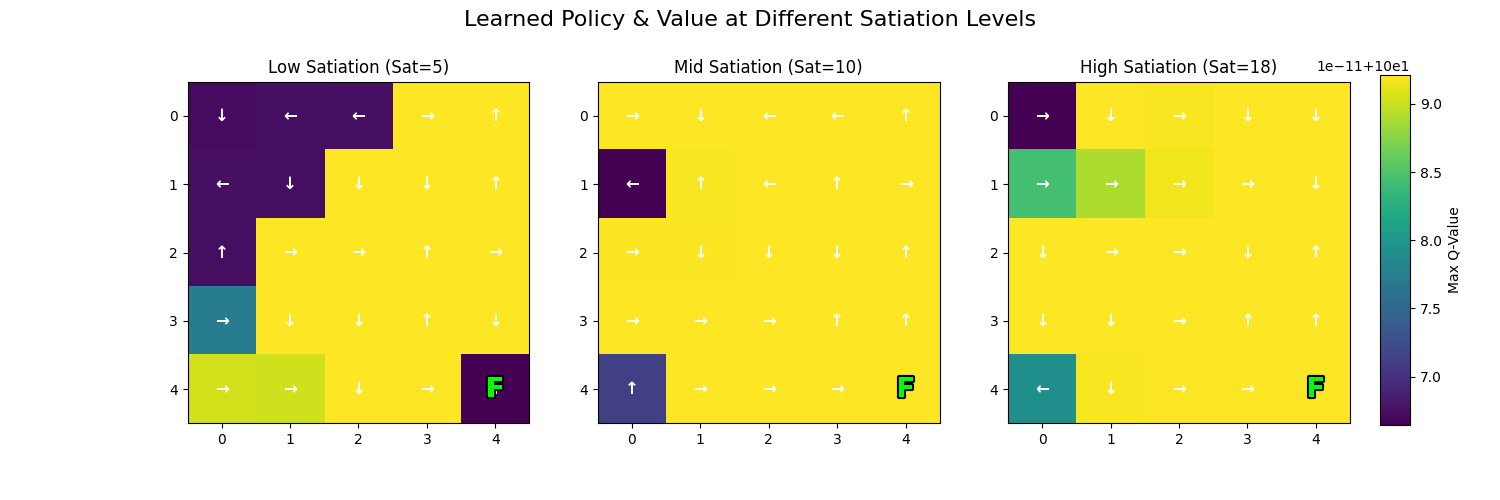
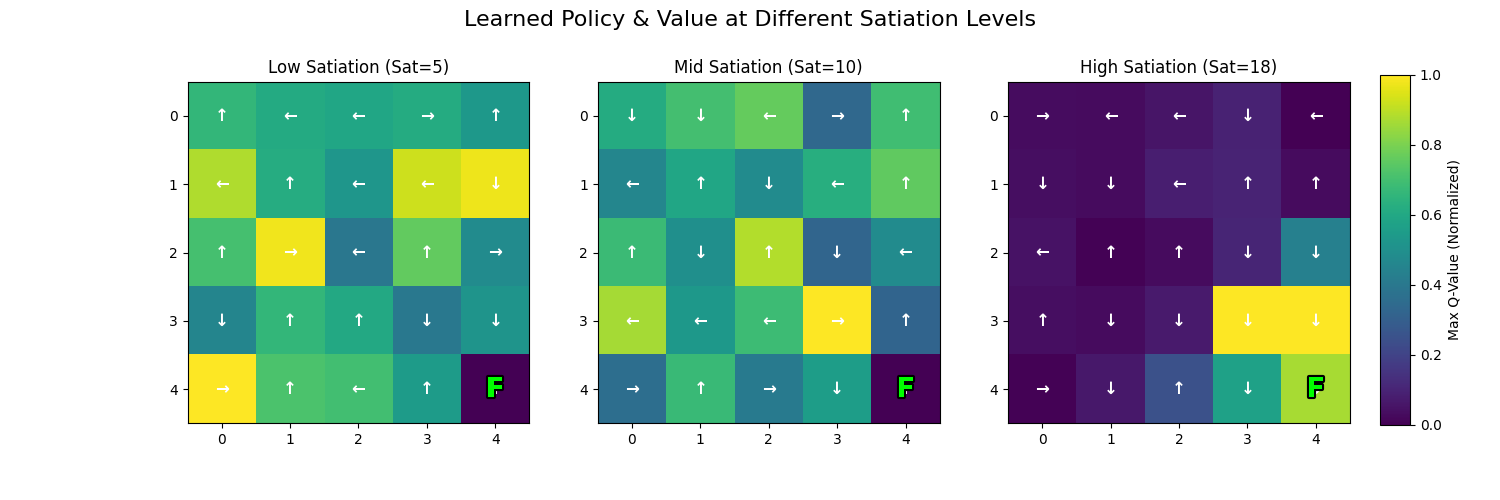
Add milestone video generation and Q-table normalization
- Update train_rl.py to generate videos at 10, 25, 50, 75, 100 milestones
- Add Q-value normalization to Q-table visualization heatmaps
- Silence run_and_save_episode output during training milestones

diff --git a/src/grid_world_pain/visualization.py b/src/grid_world_pain/visualization.py
@@ -84,8 +84,16 @@ def plot_q_table(q_table, save_path, food_pos=None):
         # Policy: Argmax Q
         policy = np.argmax(q_slice, axis=2)
         
-        # Plot Heatmap of Value
-        cax = ax.imshow(v_values, cmap='viridis', interpolation='nearest')
+        # Normalize Value function for visualization (0 to 1 range across displayed slices)
+        # We find global max/min across the slices being visualized for consistent color mapping
+        v_min, v_max = np.min(v_values), np.max(v_values)
+        if v_max > v_min:
+            v_norm = (v_values - v_min) / (v_max - v_min)
+        else:
+            v_norm = np.zeros_like(v_values)
+            
+        # Plot Heatmap of Normalized Value
+        cax = ax.imshow(v_norm, cmap='viridis', interpolation='nearest', vmin=0, vmax=1)
         
         # Add simpler title
         labels = ["Low", "Mid", "High"]
@@ -109,7 +117,7 @@ def plot_q_table(q_table, save_path, food_pos=None):
     # Add colorbar
     fig.subplots_adjust(right=0.9)
     cbar_ax = fig.add_axes([0.92, 0.15, 0.02, 0.7])
-    fig.colorbar(cax, cax=cbar_ax, label='Max Q-Value')
+    fig.colorbar(cax, cax=cbar_ax, label='Max Q-Value (Normalized)')
     
     plt.suptitle("Learned Policy & Value at Different Satiation Levels", fontsize=16)
     plt.savefig(save_path)
@@ -125,7 +133,14 @@ def plot_q_table_conventional(q_table, save_path, food_pos=None):
     v_values = np.max(q_table, axis=2)
     policy = np.argmax(q_table, axis=2)
     
-    cax = ax.imshow(v_values, cmap='viridis', interpolation='nearest')
+    # Normalize for visualization
+    v_min, v_max = np.min(v_values), np.max(v_values)
+    if v_max > v_min:
+        v_norm = (v_values - v_min) / (v_max - v_min)
+    else:
+        v_norm = np.zeros_like(v_values)
+        
+    cax = ax.imshow(v_norm, cmap='viridis', interpolation='nearest', vmin=0, vmax=1)
     ax.set_title("Learned Policy & Value (Conventional Mode)")
     ax.set_xticks(np.arange(width))
     ax.set_yticks(np.arange(height))
@@ -140,19 +155,20 @@ def plot_q_table_conventional(q_table, save_path, food_pos=None):
         fr, fc = food_pos
         ax.text(fc, fr, 'G', ha='center', va='center', color='lime', fontsize=20, weight='bold', path_effects=[PathEffects.withStroke(linewidth=3, foreground='black')])
         
-    fig.colorbar(cax, ax=ax, label='Max Q-Value')
+    fig.colorbar(cax, ax=ax, label='Max Q-Value (Normalized)')
     plt.savefig(save_path)
     plt.close(fig)
 
 
-def run_and_save_episode(env, body, agent, output_path, max_steps=50, num_episodes=1, with_satiation=True):
+def run_and_save_episode(env, body, agent, output_path, max_steps=50, num_episodes=1, with_satiation=True, verbose=True):
     """
     Helper to run episodes and save video.
     """
     frames = []
     
     for ep in range(num_episodes):
-        print(f"Recording Episode {ep+1}/{num_episodes}...")
+        if verbose:
+            print(f"Recording Episode {ep+1}/{num_episodes}...")
         
         env_state = env.reset()
         if with_satiation:
@@ -195,7 +211,8 @@ def run_and_save_episode(env, body, agent, output_path, max_steps=50, num_episod
                 
     os.makedirs(os.path.dirname(output_path), exist_ok=True)
     imageio.mimsave(output_path, frames, fps=5)
-    print(f"Saved video to {output_path}")
+    if verbose:
+        print(f"Saved video to {output_path}")
 
 def generate_video_from_checkpoint(checkpoint_path, results_dir, max_steps=50, num_episodes=1, with_satiation=True):
     """

diff --git a/train_rl.py b/train_rl.py
@@ -141,6 +141,17 @@ def train_and_visualize(episodes=100000, seed=42, with_satiation=True, overeatin
             # Save Q-table snapshot
             model_snap_filename = os.path.join(models_dir, f"q_table_{pct}.npy")
             agent.save(model_snap_filename)
+            
+            # NEW: Generate milestone video
+            video_dir = os.path.join(results_dir, "videos")
+            os.makedirs(video_dir, exist_ok=True)
+            milestone_video_filename = os.path.join(video_dir, f"video_{pct}.mp4")
+            
+            # Temporary disable epsilon for recording
+            original_epsilon = agent.epsilon
+            agent.epsilon = 0.0
+            run_and_save_episode(env, body, agent, milestone_video_filename, max_steps=max_steps, num_episodes=1, with_satiation=with_satiation, verbose=False)
+            agent.epsilon = original_epsilon
     
     print() # Newline after progress bar
     
@@ -158,14 +169,15 @@ def train_and_visualize(episodes=100000, seed=42, with_satiation=True, overeatin
     vis_filename = os.path.join(plots_dir, "q_table_vis.png")
     plot_q_table(agent.q_table, vis_filename, env.food_pos)
     
-    # NEW: Generate post-training video
+    # Final video generation is now handled by the 100% milestone
+    # But for clarity, we can ensure results/videos/final_trained_agent.mp4 exists as a symlink or copy if needed.
+    # For now, milestone video_100.mp4 is the final one.
     video_dir = os.path.join(results_dir, "videos")
-    os.makedirs(video_dir, exist_ok=True)
-    video_filename = os.path.join(video_dir, "final_trained_agent.mp4")
-    
-    print(f"Generating final video for trained agent...")
-    agent.epsilon = 0 # No exploration for final video
-    run_and_save_episode(env, body, agent, video_filename, max_steps=max_steps, num_episodes=1, with_satiation=with_satiation)
+    final_src = os.path.join(video_dir, "video_100.mp4")
+    final_dst = os.path.join(video_dir, "final_trained_agent.mp4")
+    if os.path.exists(final_src):
+        import shutil
+        shutil.copy(final_src, final_dst)
 
 if __name__ == "__main__":
     parser = argparse.ArgumentParser(description="Train RL Agent")
